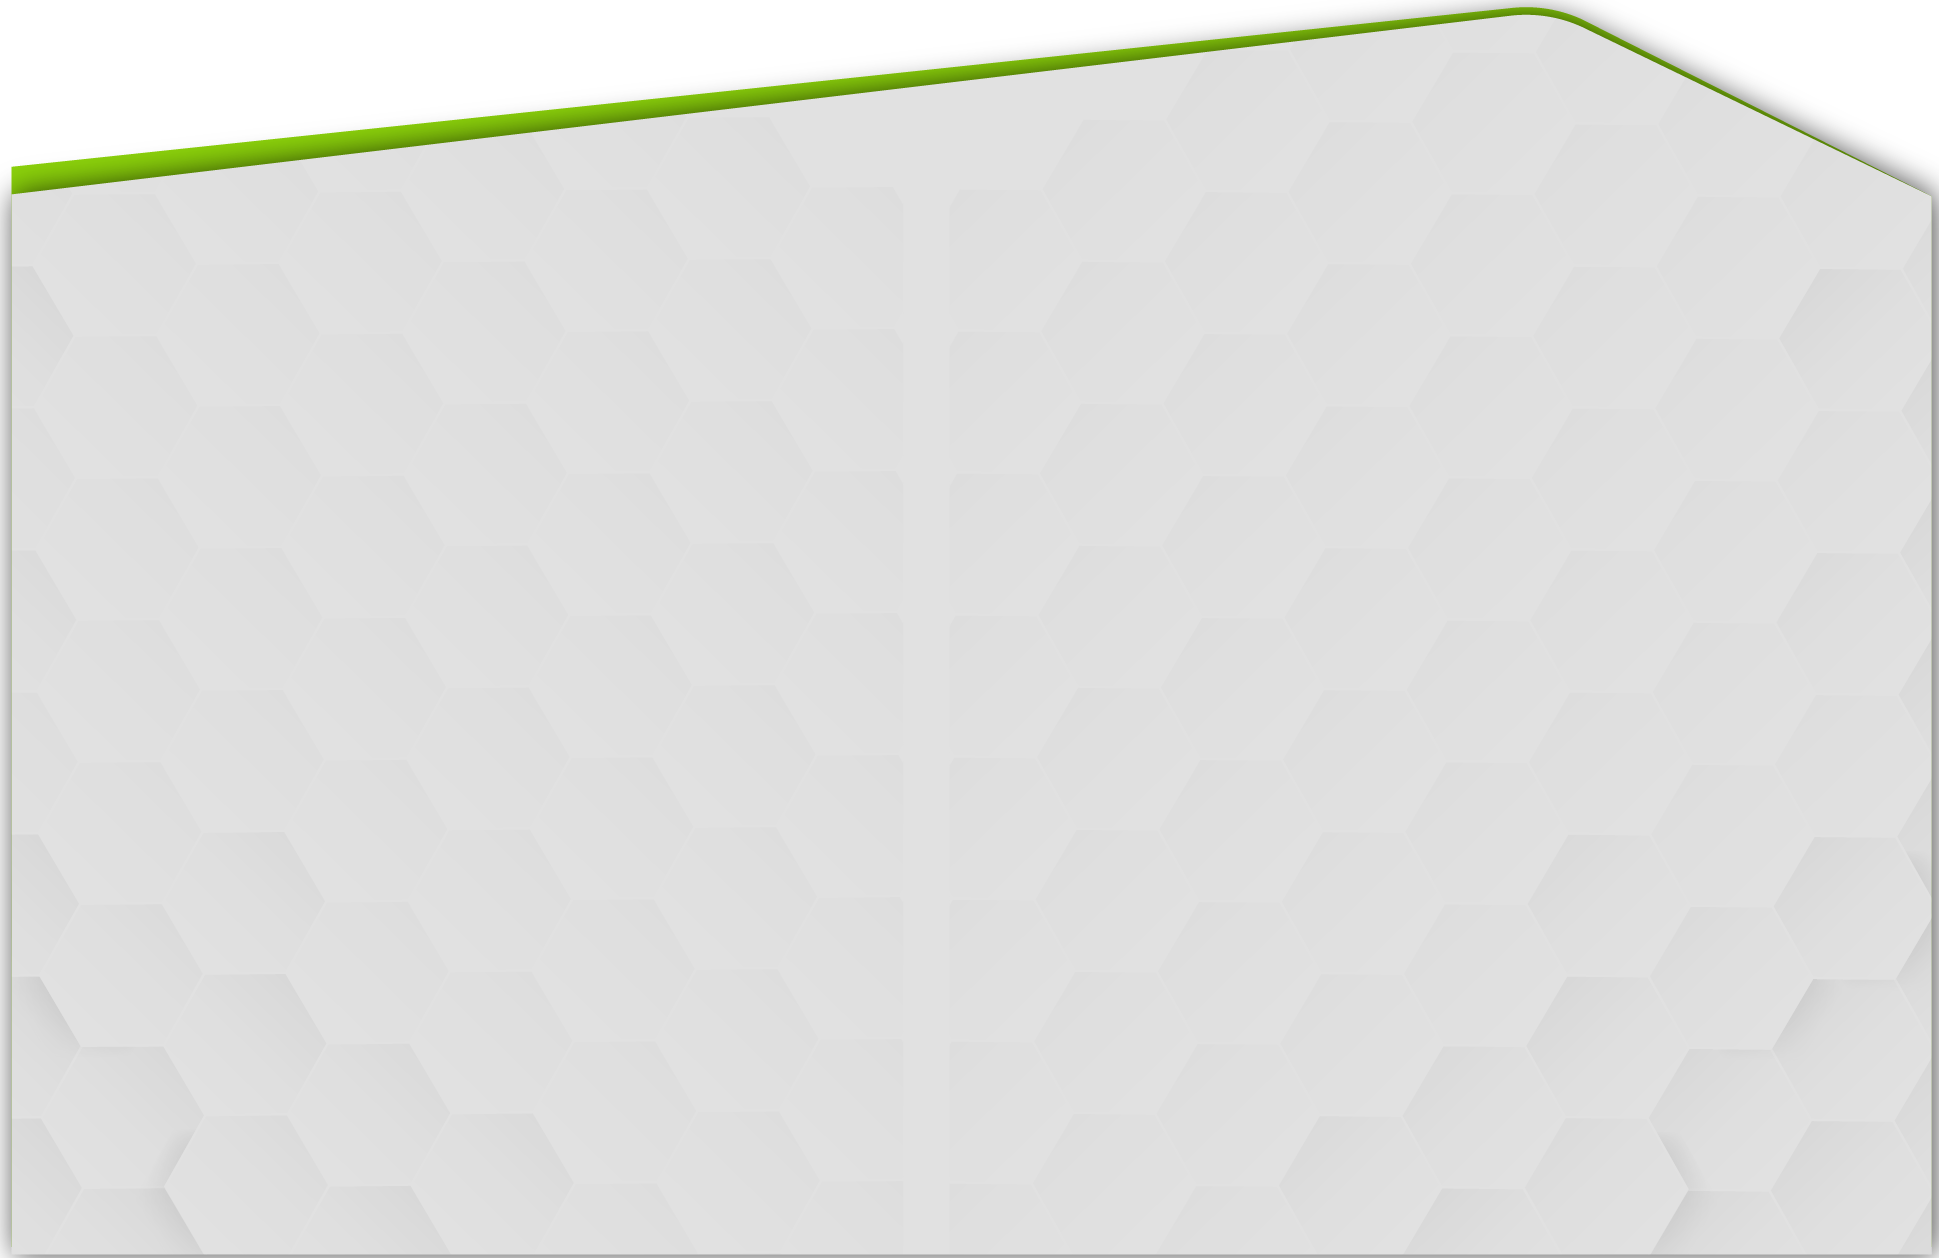
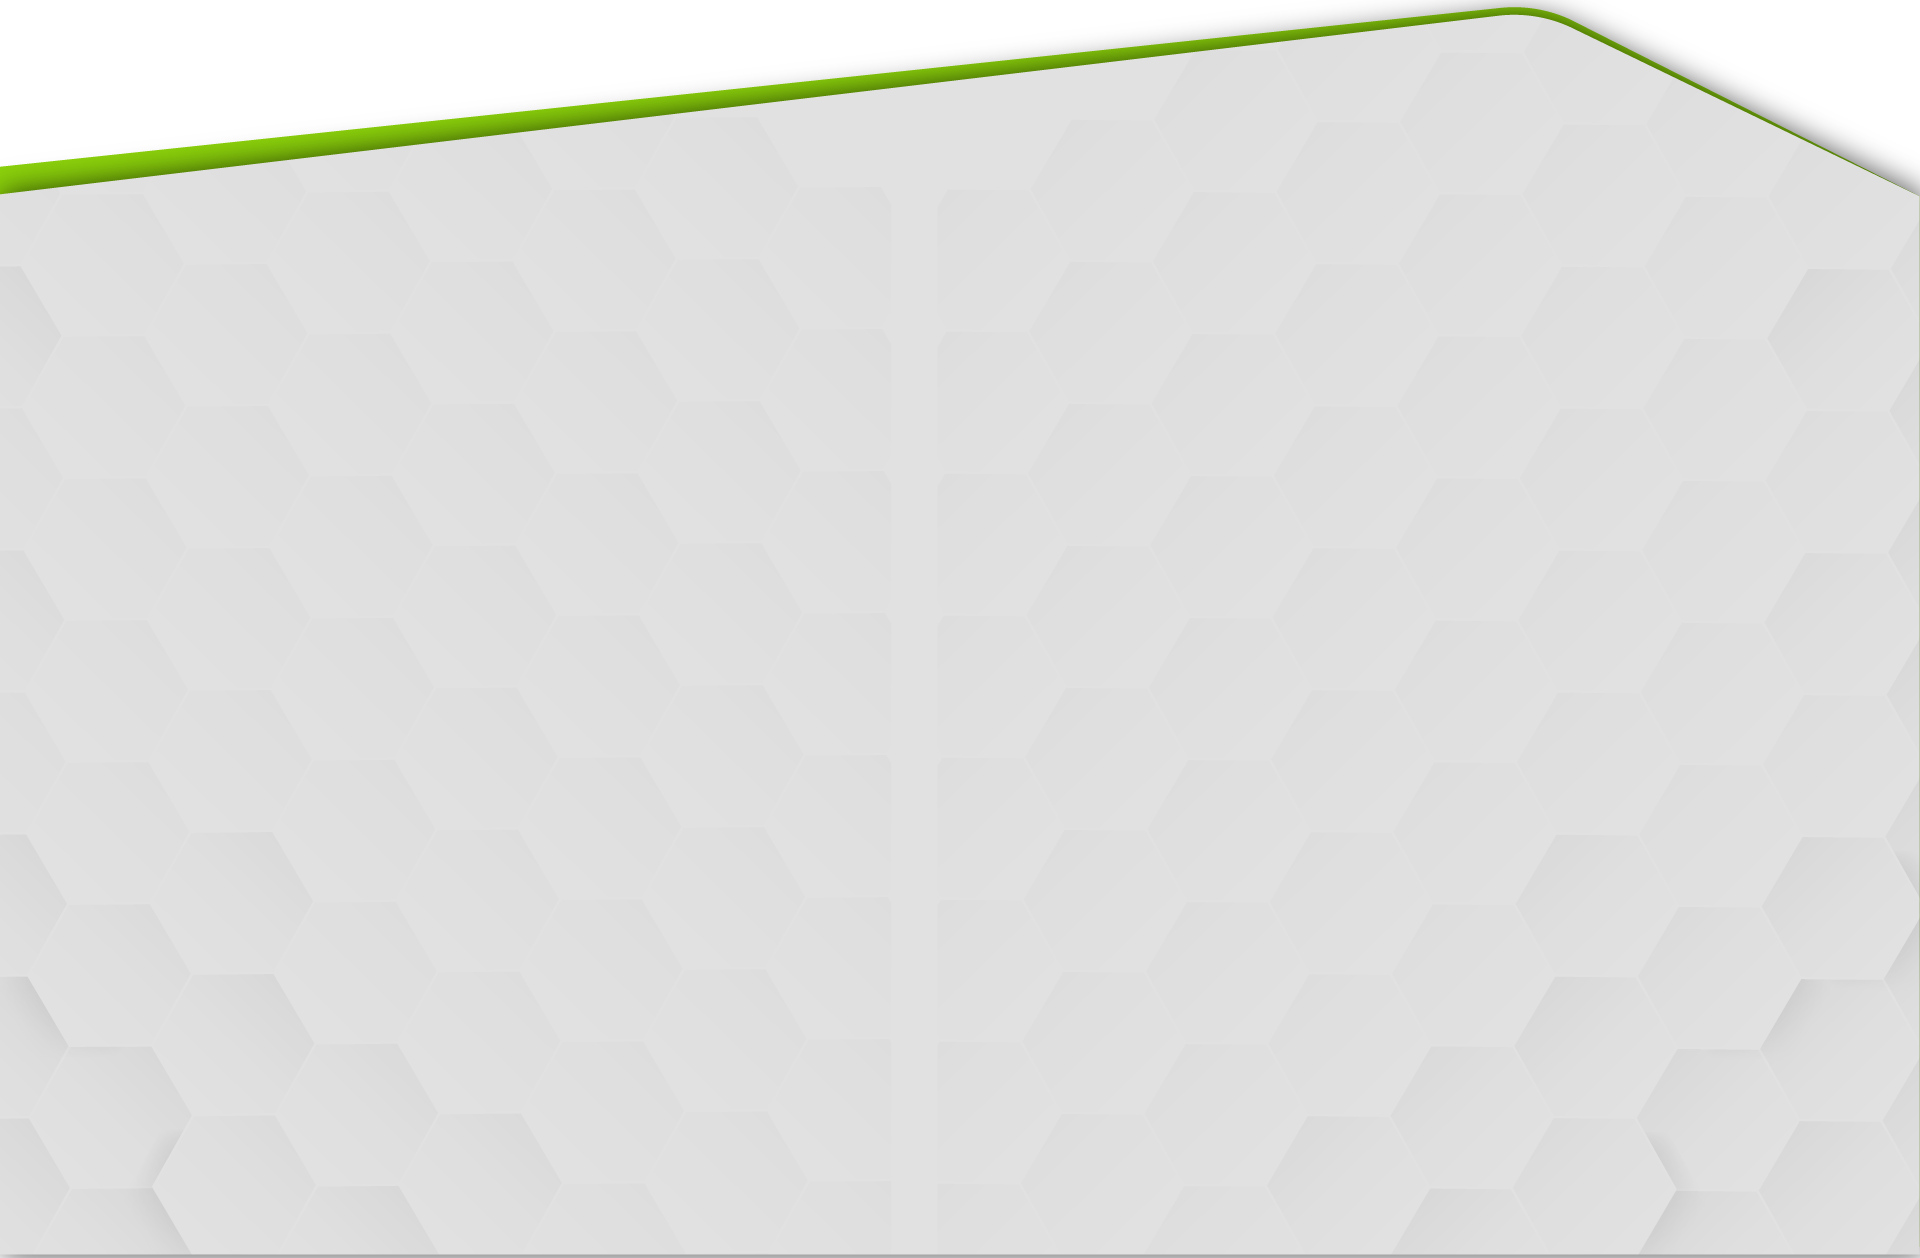
chage some styles

diff --git a/components/Section7/index.tsx b/components/Section7/index.tsx
@@ -33,11 +33,11 @@ const data = [
 
 const Service = () => {
   return (
-    <div className="bg-[url('/images/Section7Bg.png')] w-full h-[90vh]  flex items-center justify-around flex-col  relative  top-[-723px]">
+    <div className="bg-[url('/images/Section7Bg.png')] w-full lg:aspect-[1] xl:aspect-[2]  bg-no-repeat flex items-center justify-around flex-col  relative  top-[-723px] md:pb-[100px]">
       <h1 className=" absolute top-[125px] left-[205px] text-6xl font-black leading-7   ">
         {/* Serviceios */}
       </h1>
-      <div className="flex justify-around w-[100%] absolute top-[30%] ">
+      <div className="flex justify-around w-[100%] absolute top-[30%]  flex-wrap ">
         {data.map((items: any, index) => {
           return (
             <div className=" ">

diff --git a/components/Service/Service.tsx b/components/Service/Service.tsx
@@ -32,7 +32,7 @@ const data = [
 
 const Service = () => {
   return (
-    <div className="bg-[url('/images/Section5.png')] w-full flex-col pt-[5.5rem] bg-cover bg-no-repeat relative top-[-527px] h-[100vh]">
+    <div className="bg-[url('/images/Section5.png')] w-full flex-col pt-[5.5rem] bg-cover bg-no-repeat relative top-[-551px]  lg:pb-[200px] ">
       <h1 className="text-6xl font-bold leading-7 pb-[121px] pl-[224px]">
         Serviceios
       </h1>

diff --git a/tailwind.config.js b/tailwind.config.js
@@ -31,4 +31,4 @@ module.exports = {
     // ...
     // require('@tailwindcss/forms'),
   ],
-}
+};
